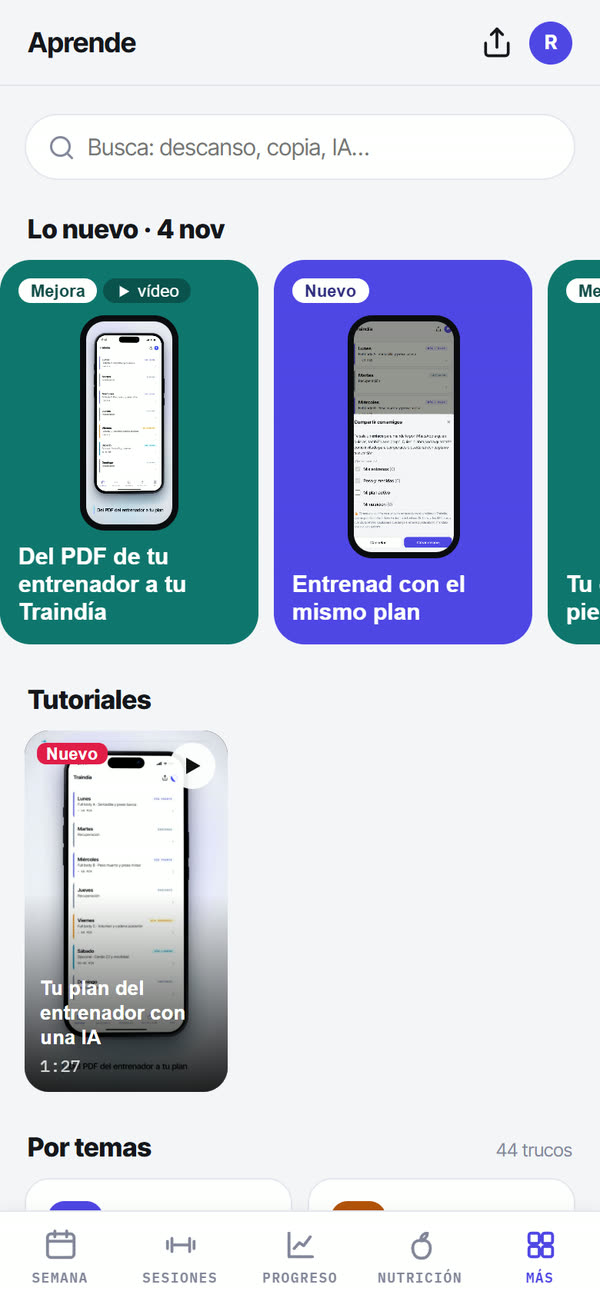
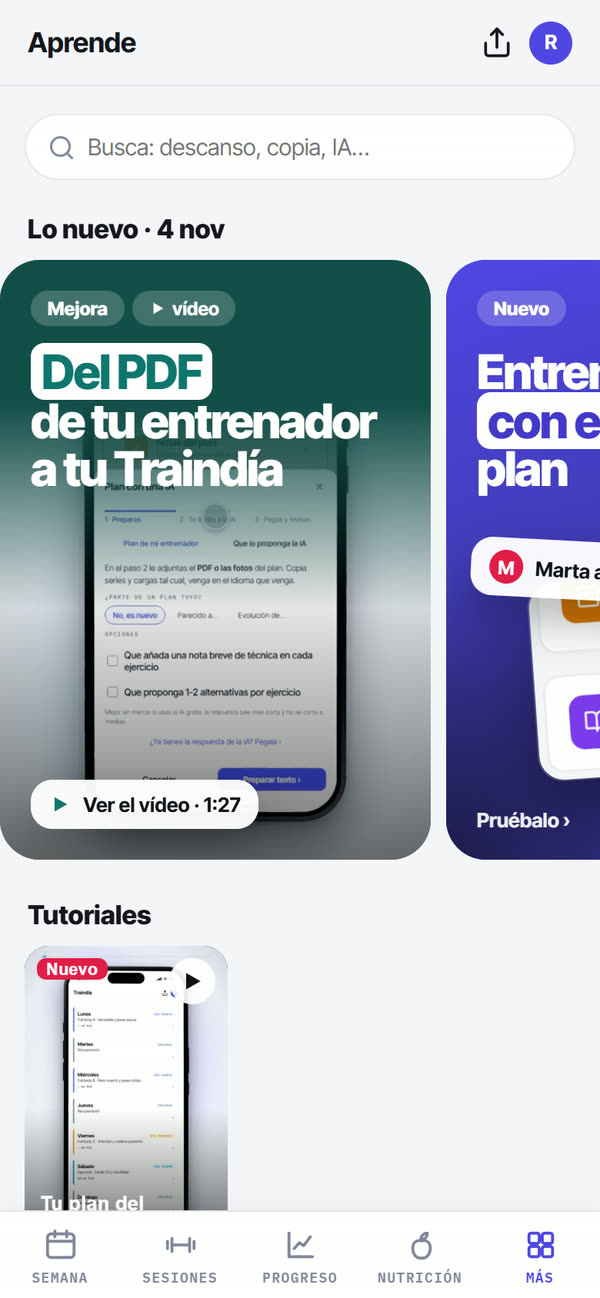
Novedad de Aprende con la captura actual (tarjetas póster de «Lo nuevo», sin el número de trucos) · v2.64.3 (build-262)

diff --git a/app.js b/app.js
@@ -303,7 +303,7 @@ const app = {
     this._updForce = true;
     const r = await this.checkUpdate();
     if (r === true) UI.toast('Hay una versión nueva: se aplica en un momento');
-    else { this._updForce = false; UI.toast(r === false ? 'Ya tienes la última versión (v2.64.2)' : 'No se pudo comprobar. Prueba en un rato', r === false ? undefined : 'err'); }
+    else { this._updForce = false; UI.toast(r === false ? 'Ya tienes la última versión (v2.64.3)' : 'No se pudo comprobar. Prueba en un rato', r === false ? undefined : 'err'); }
   },
 
   registerViews() {
@@ -899,7 +899,7 @@ const app = {
                 tipo: d.tipo,
                 mensaje: d.mensaje.trim(),
                 contacto: (d.contacto || '').trim() || '(no indicado)',
-                version: 'v2.64.2',
+                version: 'v2.64.3',
                 perfil: (this.mainUser && this.mainUser.name) || '',
                 navegador: navigator.userAgent,
               }),
@@ -960,7 +960,7 @@ const app = {
         <div class="more-group">${g.rows.map(r => `<button class="more-row" ${r.feedback ? 'data-feedback' : `data-link="${r.v}"`}>
           <span class="more-ic" style="background:${g.color}">${UI.icon(r.icon, 20)}</span>
           <span class="more-txt"><strong>${r.label}</strong><span${r.warn ? ' class="warn"' : ''}>${UI.esc(r.sub)}</span></span><span class="chev">›</span></button>`).join('')}</div>`).join('')}
-      <p class="version-foot">Traindía · v2.64.2<br>© 2026 Raúl Márquez · <a class="foot-link" href="${this.REPO_URL}" target="_blank" rel="noopener">Ver en GitHub ↗</a></p>
+      <p class="version-foot">Traindía · v2.64.3<br>© 2026 Raúl Márquez · <a class="foot-link" href="${this.REPO_URL}" target="_blank" rel="noopener">Ver en GitHub ↗</a></p>
     </div>`;
   },
   bindMore(root) {
@@ -1409,7 +1409,7 @@ const app = {
         ${(window.traindiaInstalled && window.traindiaInstalled())
           ? `<div class="more-row set-static"><span class="more-ic" style="background:var(--light)">${UI.icon('check', 18)}</span><span class="more-txt"><strong>Instalada en este móvil</strong><span>La estás usando como app</span></span></div>`
           : row('id="installRow"', 'download', 'var(--light)', 'Instalar en el móvil', 'Como una app, a pantalla completa y sin conexión')}
-        ${row('id="checkUpd"', 'repeat', 'var(--light)', 'Buscar actualizaciones', 'Tienes la v2.64.2. Se actualiza sola, esto es por si quieres forzarlo')}
+        ${row('id="checkUpd"', 'repeat', 'var(--light)', 'Buscar actualizaciones', 'Tienes la v2.64.3. Se actualiza sola, esto es por si quieres forzarlo')}
         ${row('id="seeLanding"', 'info', 'var(--rest)', 'Ver la presentación', 'Qué es Traindía y cómo funciona')}
         ${row('id="seeRepo"', 'code', 'var(--rest)', 'Código en GitHub', 'Novedades de cada versión', `<span class="chev">↗</span>`)}
       </div>

diff --git a/sw.js b/sw.js
@@ -1,10 +1,10 @@
 // Service Worker - Traindía
-// La versión visible de la app es v2.64.2 (ver pie en la app).
+// La versión visible de la app es v2.64.3 (ver pie en la app).
 // CACHE_NAME es solo la clave de caché: súbele el número de build en cada deploy
 // (build-6, build-7, …) para que los cambios lleguen a las apps ya instaladas.
 // Los fetch usan {cache:'reload'} para saltarse la caché HTTP del navegador/Pages
 // y traer SIEMPRE la última versión con red (offline tira de CACHE_NAME).
-const CACHE_NAME = 'traindia-build-261';
+const CACHE_NAME = 'traindia-build-262';
 // Buzón temporal para archivos que llegan por "Compartir" desde otra app
 // (WhatsApp, Archivos…). No se borra al activar: lo lee y vacía la app.
 const SHARE_CACHE = 'traindia-share-inbox';
